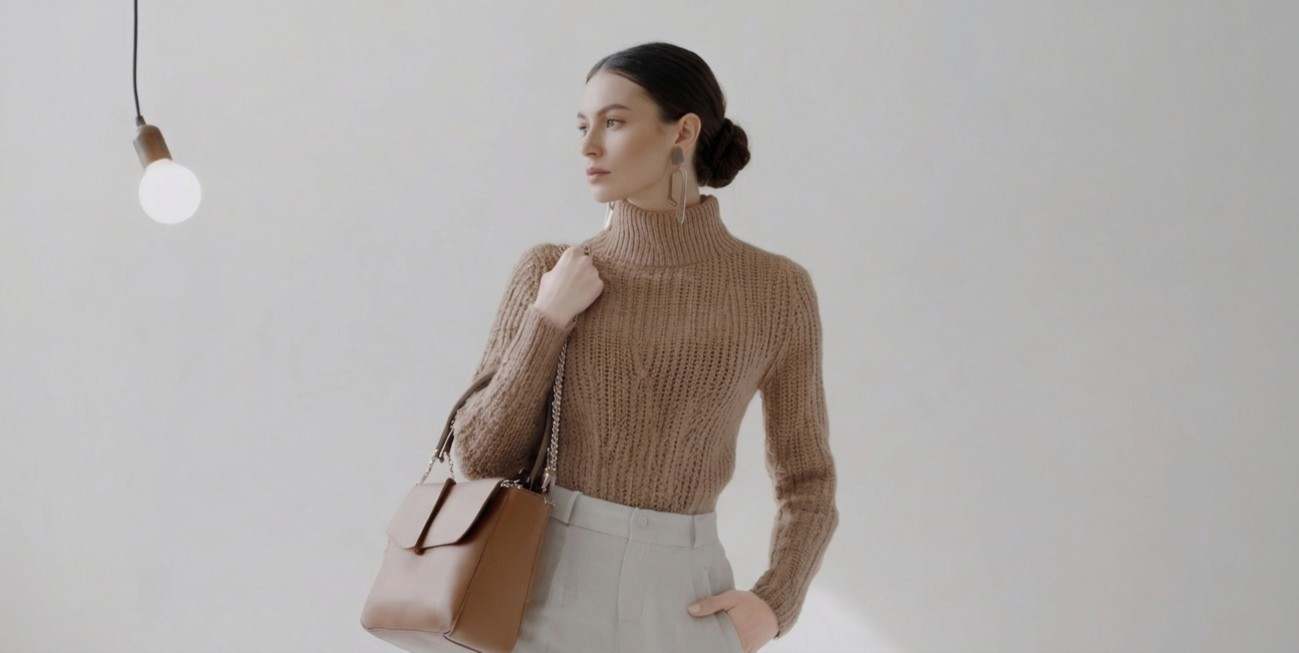
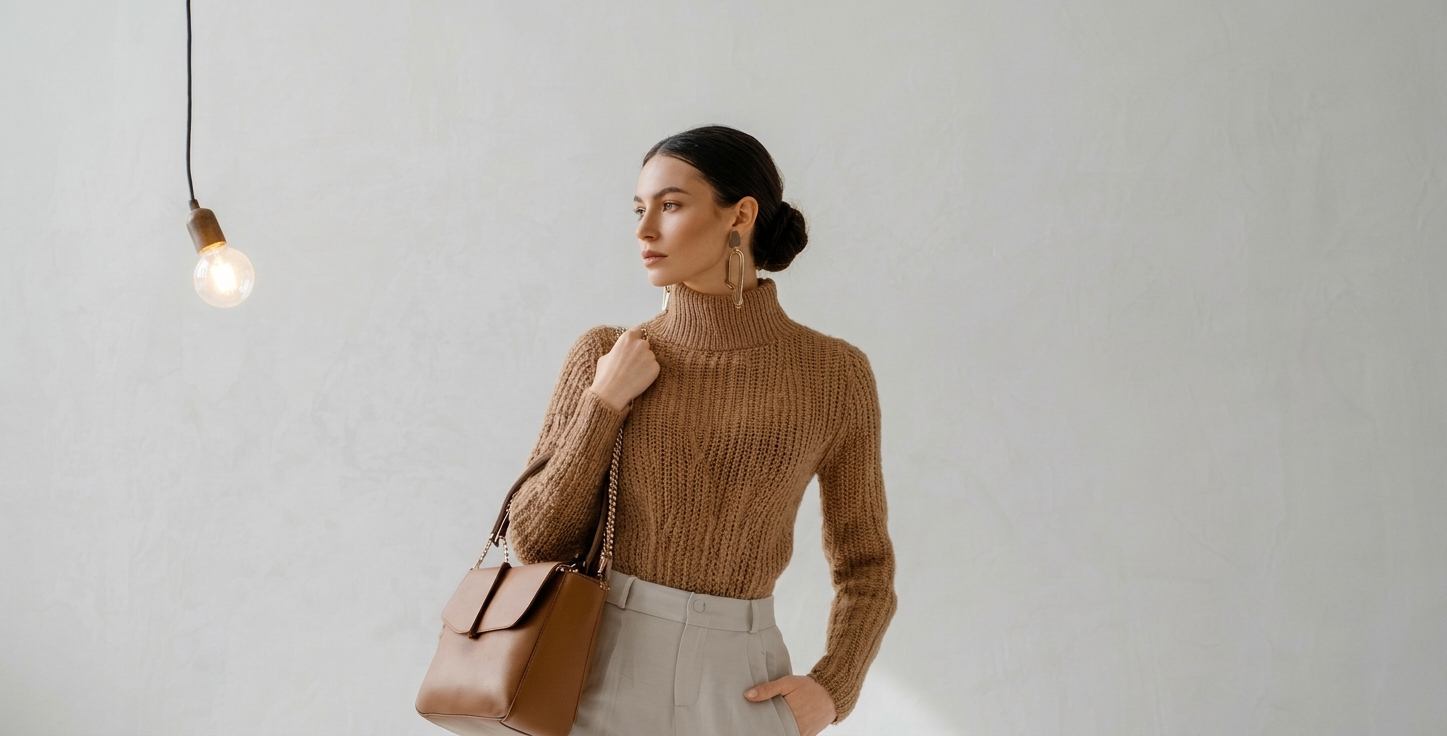
Hero image

Changed region(s): [[0.2771, 0.0613, 0.6467, 1.0], [0.0924, 0.0, 0.1848, 0.4288]]

diff --git a/src/app/page.tsx b/src/app/page.tsx
@@ -1,9 +1,58 @@
 import Image from "next/image";
+import Link from "next/link";
 
 export default function Home() {
   return (
-    <div className="flex flex-col flex-1 items-center justify-center bg-zinc-50 font-sans dark:bg-black">
-    
-    </div>
+    <main>
+
+      <section
+        aria-labelledby="hero-title"
+        className="relative isolate min-h-[440px] overflow-hidden bg-neutral-900 md:min-h-[520px] lg:min-h-[600px]"
+      >
+        <Image
+          src="/hero.jpg"
+          alt="Model wearing a neutral knit sweater and tailored trousers"
+          fill
+          priority
+          sizes="100vw"
+          className="object-cover object-[58%_center] md:object-center"
+        />
+
+        {/* Subtle overlay for readable text, without washing out the image */}
+        <div
+          aria-hidden="true"
+          className="pointer-events-none absolute inset-0 bg-gradient-to-r from-black/25 via-transparent to-transparent"
+        />
+
+        <div className="absolute inset-x-0 bottom-0 mx-auto w-full max-w-[1440px] px-6 pb-8 text-white sm:px-10 md:bottom-10 md:px-12 md:pb-0 lg:bottom-12">
+          <div className="max-w-[430px]">
+            <h1
+              id="hero-title"
+              className="text-3xl leading-tight font-medium tracking-tight sm:text-4xl md:text-[42px]"
+            >
+              Elevate Your Style
+              <br />
+              Timeless Fashion,
+              <br className="md:hidden" /> Sustainable Choices
+            </h1>
+
+            <Link
+              href="/shop"
+              className="mt-5 inline-flex min-h-11 items-center bg-white px-6 text-sm font-medium text-black transition-colors hover:bg-neutral-100"
+            >
+              Shop Now
+            </Link>
+          </div>
+        </div>
+      </section>
+
+
+      <section className="mx-auto max-w-[1440px] px-6 py-8 sm:px-10 md:px-12 md:py-10">
+        <p className="max-w-3xl text-sm leading-6 text-neutral-800 sm:text-base">
+          Elevate your lifestyle with a more intelligent, superior wardrobe.
+          Our range is crafted sustainably with longevity in mind.
+        </p>
+      </section>
+    </main>
   );
 }
